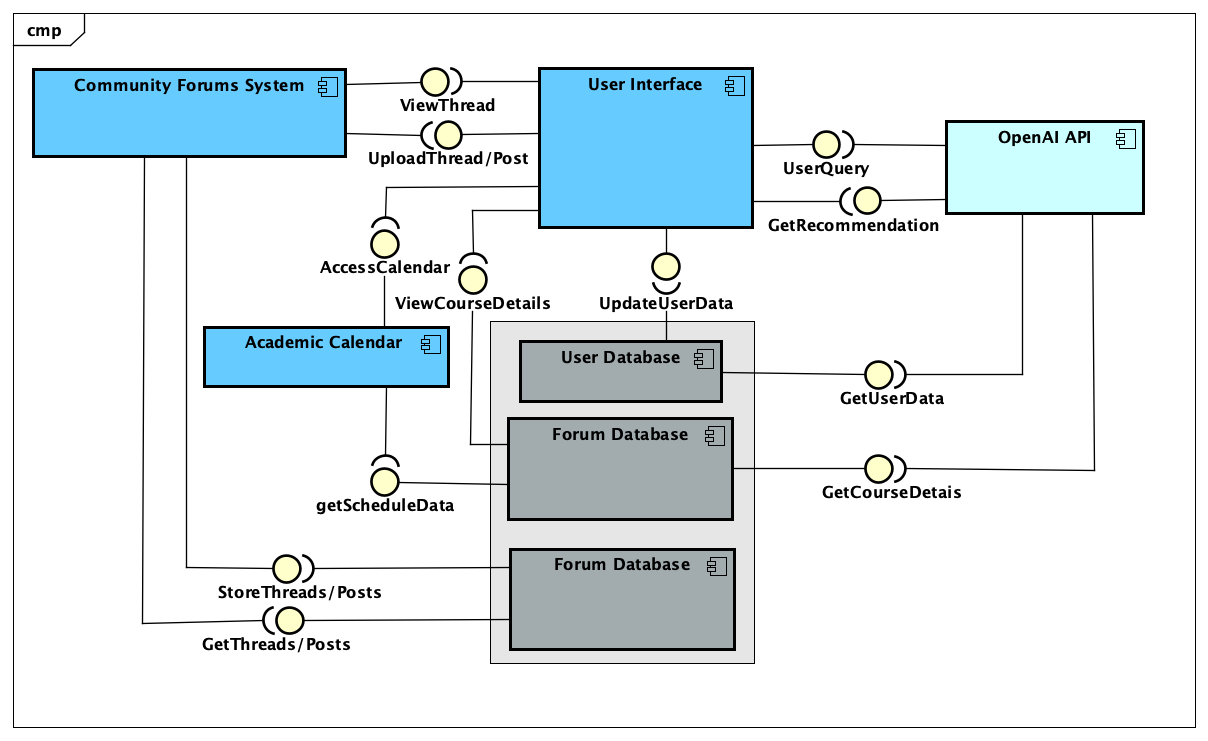
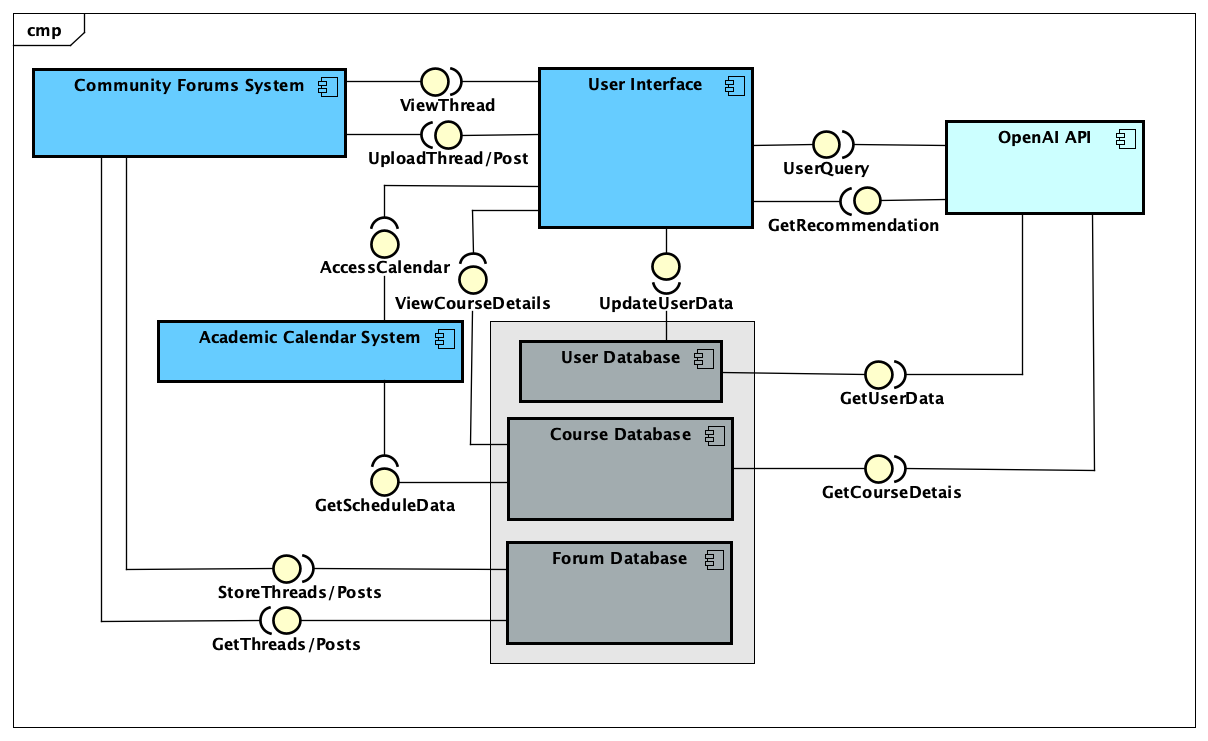
Updated ComponentDiagram.png Changed corresponding description

diff --git a/Writerside/topics/System-Design-Diagrams.md b/Writerside/topics/System-Design-Diagrams.md
@@ -6,15 +6,15 @@
 
 ![ComponentDiagram.png](ComponentDiagram.png)
 
-| Component         | Description                                                                                                                                            |
-|-------------------|--------------------------------------------------------------------------------------------------------------------------------------------------------|
-| User Interface    | Provides a user-friendly interface for students to interact with the course recommendation system.                                                     |
-| Academic Calendar | Provides the User Interface component access to the academic calendar.                                                                                 |
-| Feedback System   | Allows students to post threads and view other users' threads.                                                                                         |
-| OpenAI API        | Analyzes user queries, extracts relevant information, and processes course descriptions to provide course recommendations.                             |
-| User Database     | Stores and manages user account information, including login credentials and profile information.                                                      |
-| Course Database   | Stores and manages the university's course catalog data, including course descriptions, credits, prerequisites, instructor information, and schedules. |
-| Forum Database    | Stores and manages the threads and posts of the community forums.                                                                                      |
+| Component                | Description                                                                                                                                            |
+|--------------------------|--------------------------------------------------------------------------------------------------------------------------------------------------------|
+| User Interface           | Provides a user-friendly interface for students to interact with the course recommendation system.                                                     |
+| Academic Calendar System | Provides the User Interface component access to the academic calendar.                                                                                 |
+| Feedback System          | Allows students to post threads and view other users' threads.                                                                                         |
+| OpenAI API               | Analyzes user queries, extracts relevant information, and processes course descriptions to provide course recommendations.                             |
+| User Database            | Stores and manages user account information, including login credentials and profile information.                                                      |
+| Course Database          | Stores and manages the university's course catalog data, including course descriptions, credits, prerequisites, instructor information, and schedules. |
+| Forum Database           | Stores and manages the threads and posts of the community forums.                                                                                      |
 
 
 
